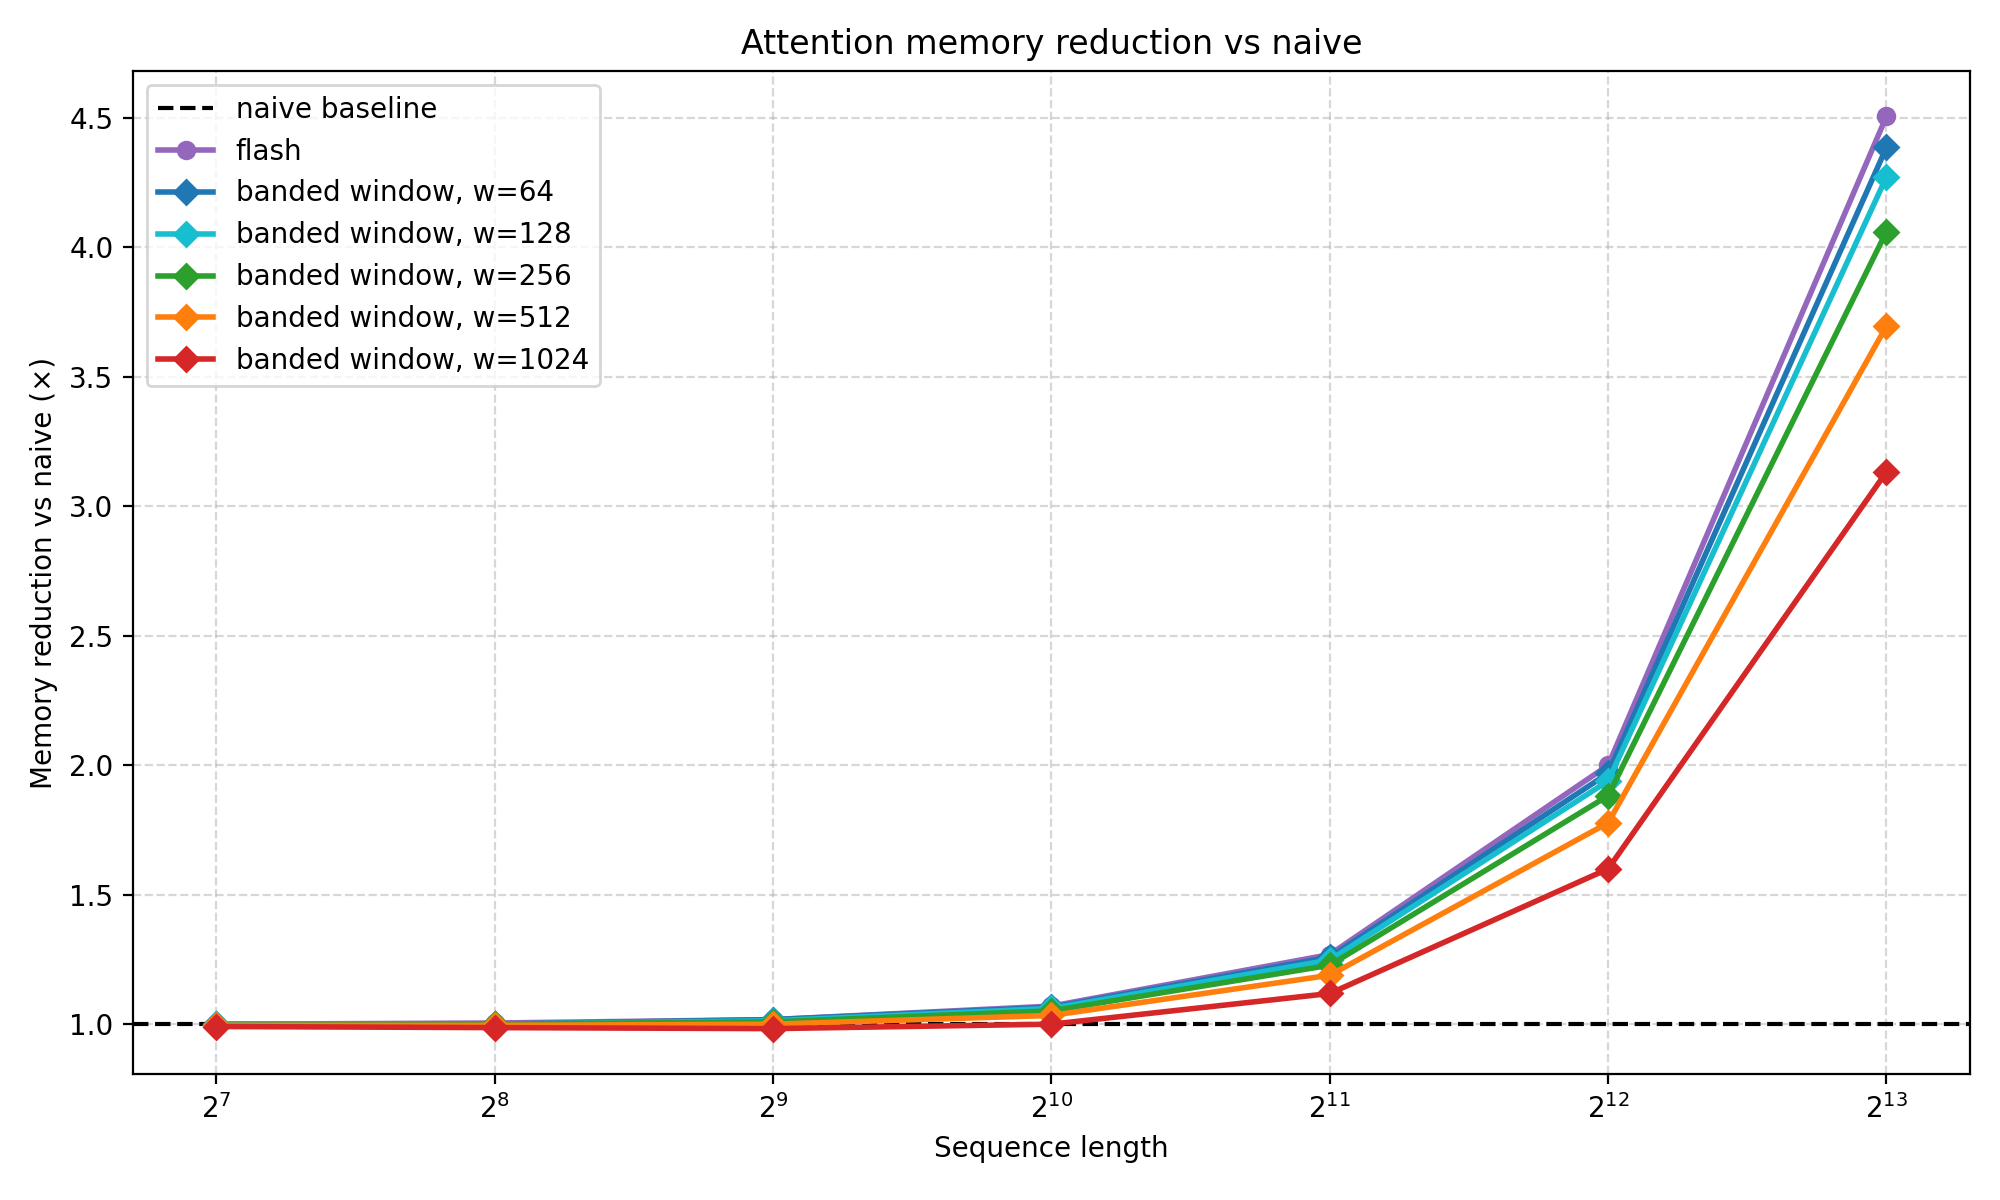
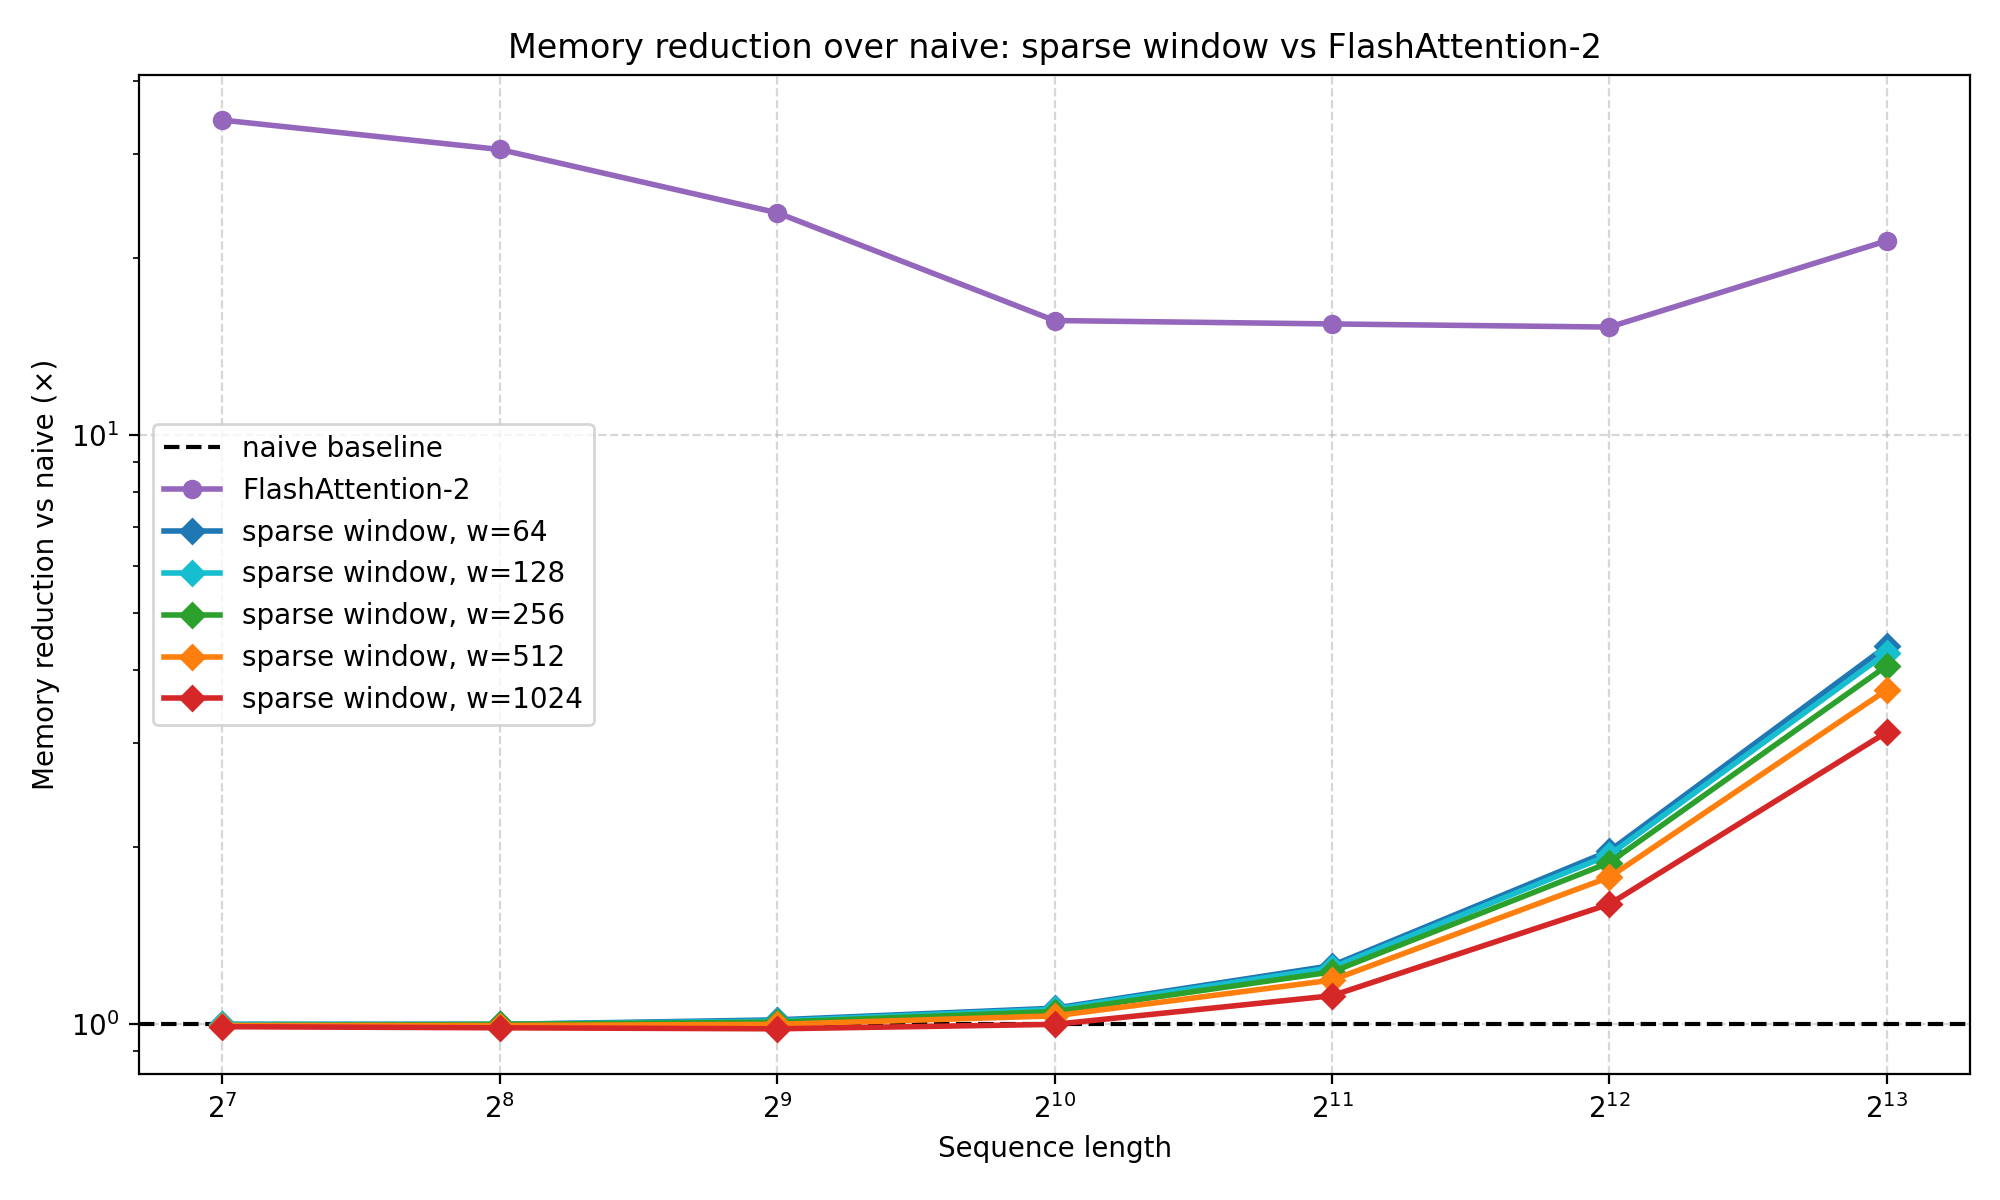
change plot and upload new results

diff --git a/python/plot_banded.py b/python/plot_banded.py
@@ -57,7 +57,7 @@ def plot_speedup(csvs):
         xs = [r["seq_len"] for r in rows if r["seq_len"] in naive]
         ys = [naive[r["seq_len"]] / r["mean_ms"] for r in rows if r["seq_len"] in naive]
         plt.plot(xs, ys, marker="o", linewidth=2,
-                 color="tab:purple", label="flash")
+                 color="tab:purple", label="FlashAttention-2")
 
     for w in WINDOW_SIZES:
         key = f"banded_window_w{w}"
@@ -67,12 +67,14 @@ def plot_speedup(csvs):
         xs = [r["seq_len"] for r in rows if r["seq_len"] in naive]
         ys = [naive[r["seq_len"]] / r["mean_ms"] for r in rows if r["seq_len"] in naive]
         plt.plot(xs, ys, marker="D", linewidth=2,
-                 color=COLORS[w], label=f"banded window, w={w}")
+                 color=COLORS[w], label=f"sparse window, w={w}")
 
     plt.xscale("log", base=2)
     plt.xlabel("Sequence length")
+    plt.yscale("log", base=10)
+    plt.yticks([1, 10], [r"$10^0$", r"$10^1$"])
     plt.ylabel("Speedup vs naive (×)")
-    plt.title("Attention speedup vs naive")
+    plt.title("Speedup over naive: sparse window vs FlashAttention-2")
     plt.grid(True, linestyle="--", alpha=0.5)
     plt.legend()
     plt.tight_layout()
@@ -96,7 +98,7 @@ def plot_memory(csvs):
         xs = [r["seq_len"] for r in rows if r["seq_len"] in naive]
         ys = [naive[r["seq_len"]] / r["peak_MB"] for r in rows if r["seq_len"] in naive]
         plt.plot(xs, ys, marker="o", linewidth=2,
-                 color="tab:purple", label="flash")
+                 color="tab:purple", label="FlashAttention-2")
 
     for w in WINDOW_SIZES:
         key = f"banded_window_w{w}"
@@ -106,12 +108,15 @@ def plot_memory(csvs):
         xs = [r["seq_len"] for r in rows if r["seq_len"] in naive]
         ys = [naive[r["seq_len"]] / r["peak_MB"] for r in rows if r["seq_len"] in naive]
         plt.plot(xs, ys, marker="D", linewidth=2,
-                 color=COLORS[w], label=f"banded window, w={w}")
+                 color=COLORS[w], label=f"sparse window, w={w}")
 
     plt.xscale("log", base=2)
+    plt.yscale("log", base=10)
+    plt.yticks([1, 10], [r"$10^0$", r"$10^1$"])
+
     plt.xlabel("Sequence length")
     plt.ylabel("Memory reduction vs naive (×)")
-    plt.title("Attention memory reduction vs naive")
+    plt.title("Memory reduction over naive: sparse window vs FlashAttention-2")
     plt.grid(True, linestyle="--", alpha=0.5)
     plt.legend()
     plt.tight_layout()

diff --git a/python/plot_results_memory.py b/python/plot_results_memory.py
@@ -3,17 +3,20 @@ import numpy as np
 
 seq = np.array([128, 256, 512, 1024, 2048, 4096, 8192])
 
-naive_peak = np.array([442.1, 446.1, 458.1, 490.1, 604.1, 1024.1, 2632.1])
-tiled_online_peak = np.array([442.1, 444.1, 450.1, 458.1, 476.1, 512.1, 584.1])
-sparse_window_peak = np.array([444.1, 446.1, 454.1, 466.1, 492.1, 544.1, 648.1])
+naive_peak = np.array([20016.1, 20256.1, 20268.1, 20654.1, 20768.1, 21188.1, 23032.1])
+tiled_online_peak = np.array([20842.1, 20844.1, 20850.1, 20858.1, 20876.1, 21266.1, 21810.1])
+tiled_online_wmma_peak = np.array([21668.1, 21670.1, 21794.1, 22038.1, 22056.1, 22092.1, 22164.1])
+sparse_window_peak = np.array([22024.1, 22026.1, 22034.1, 22046.1, 22072.1, 22124.1, 22464.1])
 
 tiled_online_mem_saving = naive_peak / tiled_online_peak
+tiled_online_wmma_mem_saving = naive_peak / tiled_online_wmma_peak
 sparse_window_mem_saving = naive_peak / sparse_window_peak
 
 plt.figure(figsize=(10, 6))
 
 plt.plot(seq, tiled_online_mem_saving, marker='D', linewidth=2, label='tiled_online')
-plt.plot(seq, sparse_window_mem_saving, marker='D', linewidth=2, label='sparse window')
+plt.plot(seq, tiled_online_wmma_mem_saving, marker='D', linewidth=2, label='tiled_online_wmma')
+plt.plot(seq, sparse_window_mem_saving, marker='D', linewidth=2, label='sparse_window')
 
 plt.axhline(1.0, linestyle='--', color='black', label='naive baseline')
 
